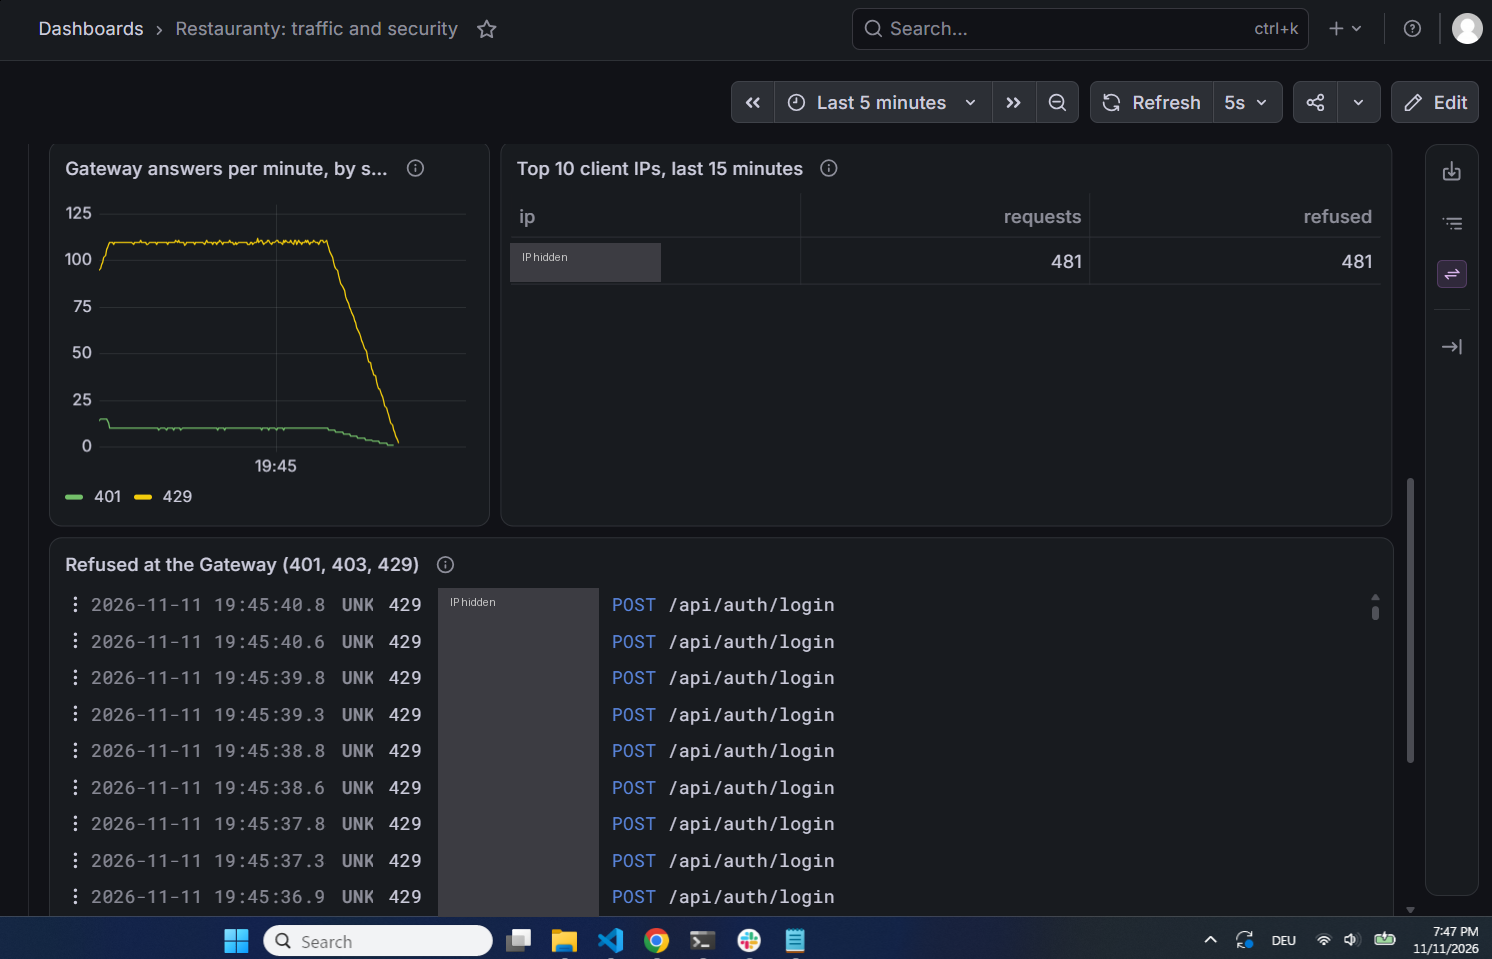
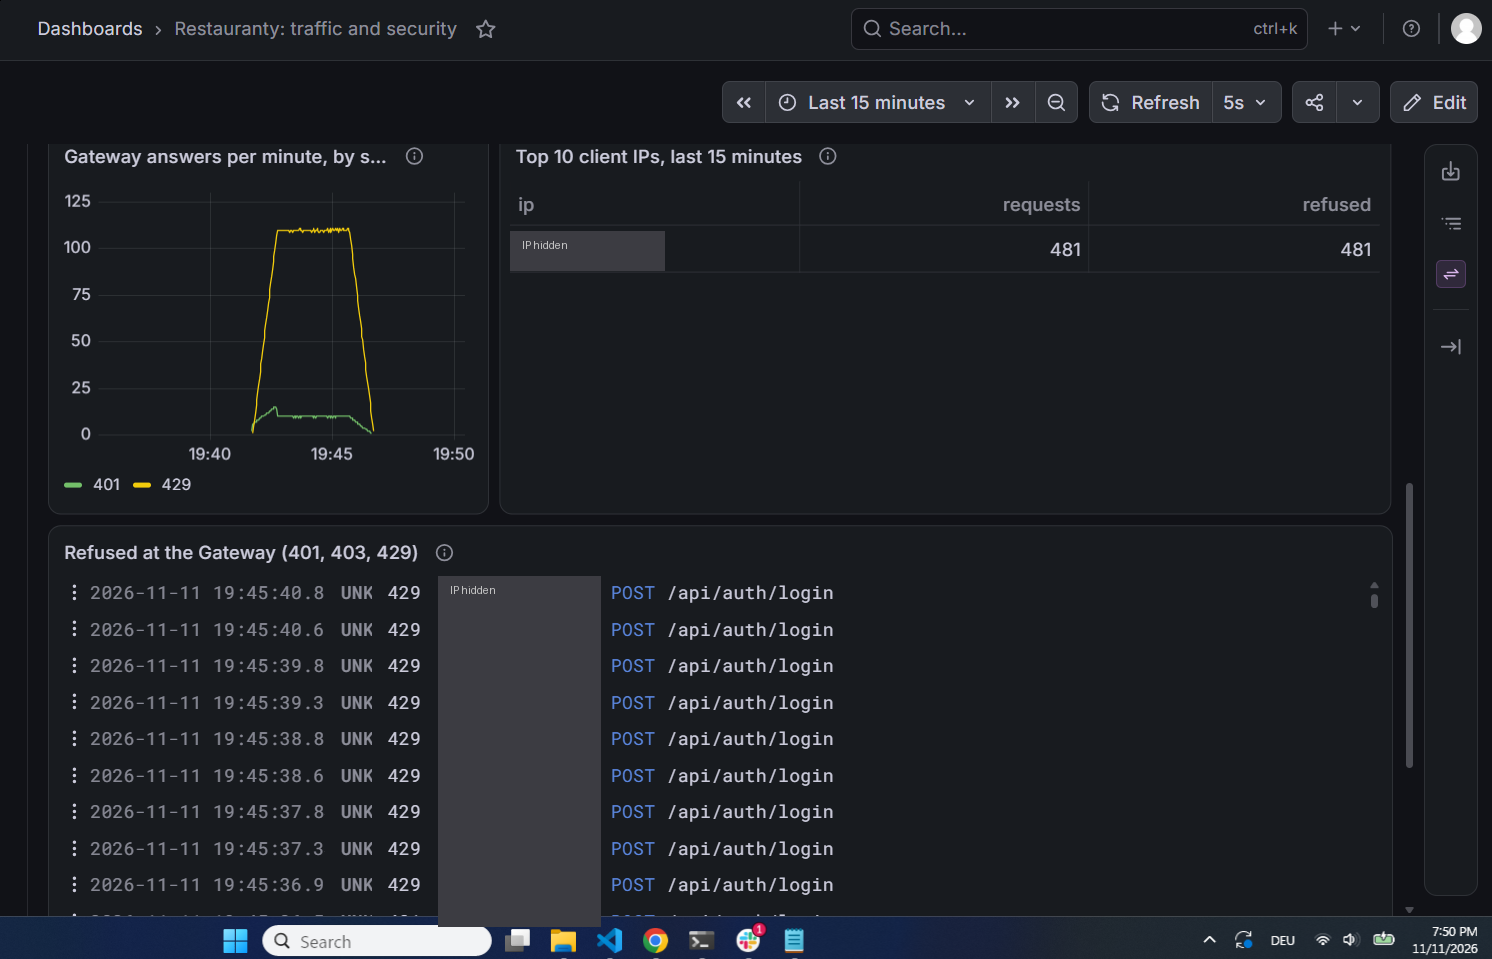
docs: entry 61, 15-minute dashboard views and the resolved alert (#15)

diff --git a/docs/build-log.md b/docs/build-log.md
@@ -4859,18 +4859,24 @@ http_req_failed................: 0.00%  0 out of 481
 
 ![Slack: RestaurantyLoginGuessing (warning), 35 failed logins in 5 minutes, with the description and the link to the dashboard](evidence/15-k6-alert-slack.png)
 
-When the message was sent, 35 failed logins had passed the Gateway within the last 5 minutes. With about 15 in the first minute and 10 per minute after that, 35 is reached after about 3 minutes of attack, which fits: the rule becomes true at 21 (after about 2 minutes) and must stay true for one more minute (`for: 1m`, entry 58). The message carries a count and points to the dashboard for the IP addresses; it carries no IP itself (entry 56).
+When the message was sent, 35 failed logins had passed the Gateway within the last 5 minutes. With about 15 in the first minute and 10 per minute after that, 35 is reached after about 3 minutes of attack, which fits: the rule becomes true at 21 (after about 2 minutes) and must stay true for one more minute (`for: 1m`, entry 58).
 
-**The dashboard during the attack** (time range "last 5 minutes", around 19:45):
+A few minutes after k6 stopped, the alert ended:
 
-![Traffic and security rows during the attack: auth's latency up to about 220 ms; at the Gateway, 429 at about 110 per minute and 401 at about 10 per minute](evidence/15-k6-grafana-traffic-security.png)
+![The same alert twice: firing with 35 failed logins, then resolved, showing 26 failed logins](evidence/15-k6-alert-slack-resolved.png)
+
+The "resolved" message says **26**, more than the threshold of 20. That is not a mistake: a resolved message repeats the text of the alert's **last check while it was still firing**. At that check the count was 26; at the next one it was below 20, and Prometheus reported the alert as over. Worth saying in a demo, so the number does not confuse anyone. The message carries a count and points to the dashboard for the IP addresses; it carries no IP itself (entry 56).
+
+**The dashboard around the attack** (time range "last 15 minutes": before, during and after):
+
+![Traffic and security rows, 19:35 to 19:50: auth's latency rises to about 220 ms and falls again; at the Gateway, 429 at about 110 per minute and 401 at about 10 per minute while k6 runs](evidence/15-k6-grafana-traffic-security.png)
 
 - **Login attempts at the Gateway, by answer** draws the prediction: 429 jumps to about 110 per minute; 401 starts at about 15 (the burst) and then stays at 10 per minute (one every 6 seconds).
-- **Failed logins per minute** (from `auth`'s own counter) jumps between about 6 and 14. Prometheus reads the counter every 30 seconds and spreads the count over the minute, so the line is jagged, but it averages the same 10 per minute.
-- **Latency p95, backends:** `auth` climbs from a few milliseconds to about 220 ms. That is bcrypt: each failed login costs `auth` about 300 ms (below). The other backends stay flat.
+- **Failed logins per minute** (from `auth`'s own counter) goes from 0 to between about 6 and 14 while k6 runs, and back to 0. Prometheus reads the counter every 30 seconds and spreads the count over the minute, so the line is jagged, but it averages the same 10 per minute.
+- **Latency p95, backends:** `auth` climbs from a few milliseconds to about 220 ms and falls again after the attack. That is bcrypt: each failed login costs `auth` about 300 ms (below). The other backends stay flat.
 - **Server errors (5xx):** a flat 0, no longer "No data" (entry 55).
 
-![The Gateway's view: 481 requests from one IP address, all 481 refused; each one in the log as 429 POST /api/auth/login (IP hidden)](evidence/15-k6-grafana-gateway.png)
+![The Gateway's view, 19:40 to 19:50: the whole attack as 401 and 429 curves; 481 requests from one IP address, all 481 refused; each one in the log as 429 POST /api/auth/login (IP hidden)](evidence/15-k6-grafana-gateway.png)
 
 The Gateway's log, in Loki, has every single try: one IP address, 481 requests, 481 refused (401 or 429). This is the issue's third point, "a Loki query showing the attack (IP, path, status)": the panels "Top 10 client IPs" and "Refused at the Gateway" are exactly that query.
 
